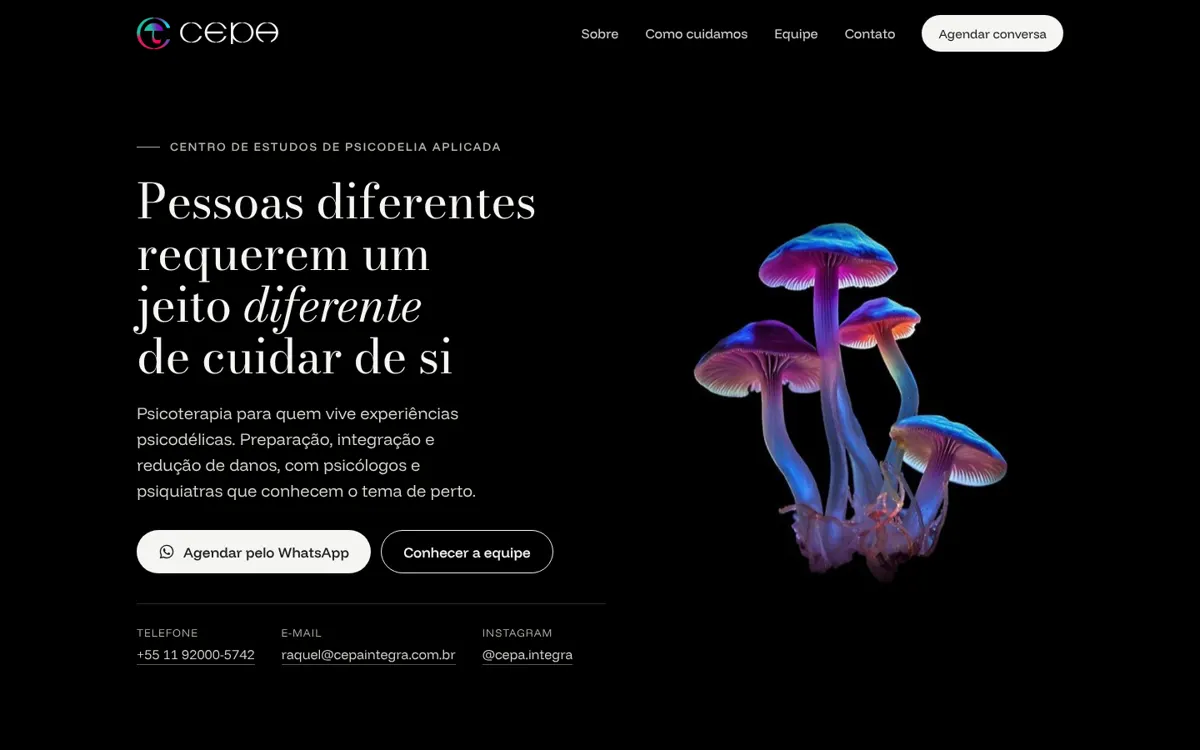
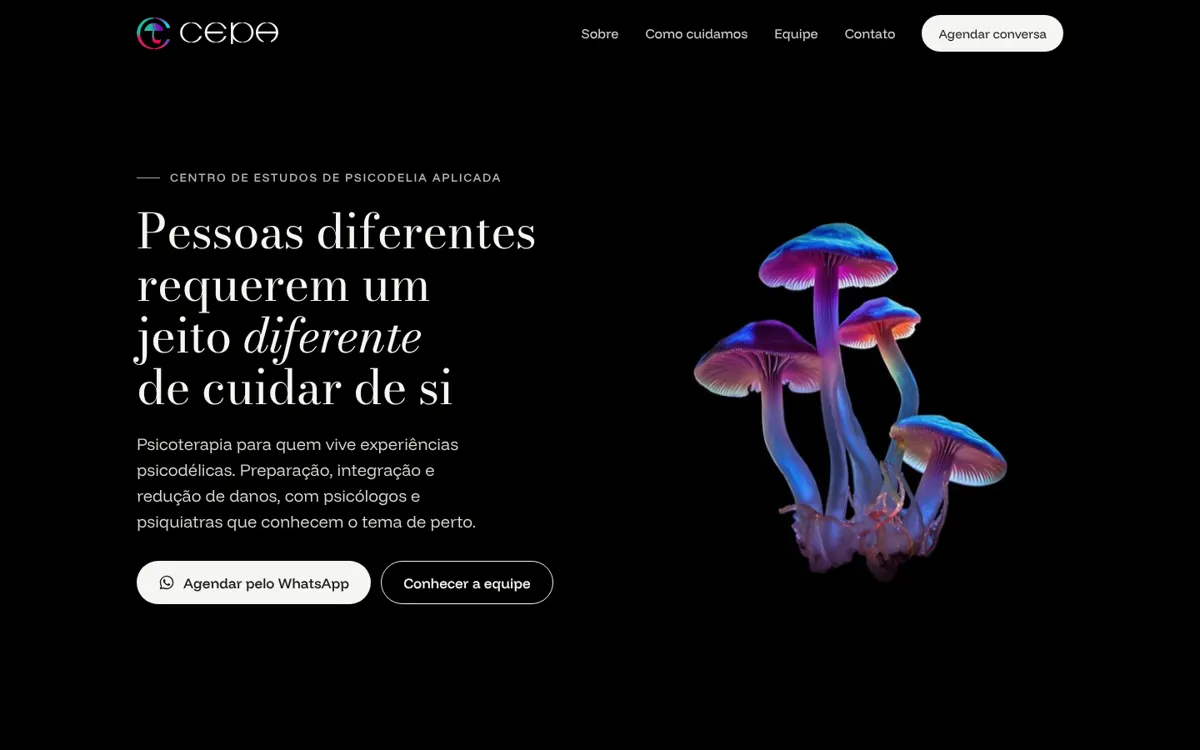
CEPA Vitamina: abertura sem contatos, botões sem pulo, WhatsApp com ícone no contato, imagens sem distorção e quatro opções de abertura
Claude-Session: https://claude.ai/code/session_01FyrvPRAtmUJU3PZbC5bryX

Changed region(s): [[0.0925, 0.184, 0.4625, 0.8893], [0.4008, 0.828, 0.4933, 0.8893]]

diff --git a/cepa/vitamina/index.html b/cepa/vitamina/index.html
@@ -48,12 +48,12 @@ h1,h2,h3{font-family:var(--serif);font-weight:400;letter-spacing:-.01em;line-hei
 p{text-wrap:pretty}
 
 /* Botões */
-.btn{display:inline-flex;align-items:center;gap:10px;min-height:52px;padding:14px 26px;border-radius:999px;font:500 17px/1 var(--sans);text-decoration:none;transition:background .25s var(--ease),color .25s var(--ease),transform .25s var(--ease)}
+.btn{display:inline-flex;align-items:center;gap:10px;min-height:52px;padding:14px 26px;border-radius:999px;font:500 17px/1 var(--sans);text-decoration:none;transition:background .25s var(--ease),color .25s var(--ease)}
 .btn svg{width:20px;height:20px;flex:none}
 .btn-luz{background:var(--off);color:var(--preto)}
-.btn-luz:hover{background:var(--branco);transform:translateY(-1px)}
+.btn-luz:hover{background:var(--branco)}
 .btn-escuro{background:var(--preto);color:var(--off)}
-.btn-escuro:hover{background:#000;transform:translateY(-1px)}
+.btn-escuro:hover{background:#000}
 .btn-linha{border:1px solid currentColor}
 .btn-linha:hover{background:rgba(245,245,242,.1)}
 
@@ -89,7 +89,7 @@ p{text-wrap:pretty}
 .contato-rapido a:hover{border-color:var(--off);color:var(--off)}
 .contato-rapido span{display:block;font-size:13px;letter-spacing:.08em;text-transform:uppercase;color:var(--cinza-escuro);margin-bottom:4px}
 .visual{position:relative;justify-self:end;width:min(100%,620px);aspect-ratio:1}
-.visual img{width:100%;height:100%;object-fit:cover;-webkit-mask-image:radial-gradient(closest-side,#000 72%,transparent 100%);mask-image:radial-gradient(closest-side,#000 72%,transparent 100%);animation:flutua 9s ease-in-out infinite}
+.visual img{width:100%;height:100%;object-fit:contain;-webkit-mask-image:radial-gradient(closest-side,#000 72%,transparent 100%);mask-image:radial-gradient(closest-side,#000 72%,transparent 100%);animation:flutua 9s ease-in-out infinite}
 .visual::after{content:"";position:absolute;inset:18%;z-index:-1;background:radial-gradient(closest-side,rgba(77,98,173,.45),rgba(216,27,97,.18) 60%,transparent);filter:blur(30px)}
 @keyframes flutua{0%,100%{transform:translateY(0)}50%{transform:translateY(-10px)}}
 
@@ -133,7 +133,7 @@ section{padding:var(--sec) 0}
 .aviso h2{font-size:clamp(32px,3.8vw,52px);margin-bottom:28px}
 .aviso p{color:#CFCCC5;margin-bottom:18px;max-width:58ch}
 .aviso p strong{color:var(--off);font-weight:500}
-.aviso img{width:100%;max-width:460px;justify-self:end;-webkit-mask-image:radial-gradient(closest-side,#000 70%,transparent);mask-image:radial-gradient(closest-side,#000 70%,transparent);opacity:.9}
+.aviso img{width:100%;height:auto;aspect-ratio:1;object-fit:cover;max-width:460px;justify-self:end;-webkit-mask-image:radial-gradient(closest-side,#000 70%,transparent);mask-image:radial-gradient(closest-side,#000 70%,transparent);opacity:.9}
 
 /* Equipe */
 .equipe .grid{display:grid;grid-template-columns:repeat(4,minmax(0,1fr));gap:40px 24px;list-style:none}
@@ -150,7 +150,7 @@ section{padding:var(--sec) 0}
 .contato p{font-size:clamp(18px,1.6vw,21px);max-width:40ch;margin-bottom:36px}
 .canais{list-style:none;display:grid;gap:0;border-top:1px solid rgba(245,245,242,.35)}
 .canais a{display:flex;justify-content:space-between;align-items:center;gap:16px;padding:20px 0;border-bottom:1px solid rgba(245,245,242,.35);text-decoration:none;font-size:clamp(18px,1.6vw,22px);transition:padding .25s var(--ease)}
-.canais a:hover{padding-left:8px}
+.canais a:hover{border-bottom-color:var(--off)}
 .canais span{font-size:13px;letter-spacing:.08em;text-transform:uppercase;opacity:.8;display:block;margin-bottom:2px}
 .canais svg{width:22px;height:22px;flex:none}
 
@@ -208,7 +208,64 @@ footer .wrap{display:grid;gap:48px}
   .visual img{animation:none}
   .surge{opacity:1;transform:none;transition:none}
 }
+
+/* Opções de abertura: A (padrão), B, C e D. Troque com ?abertura=b na URL */
+.hero{display:none}
+html:not([data-hero]) .hero-a,html[data-hero=a] .hero-a,html[data-hero=b] .hero-b,html[data-hero=c] .hero-c,html[data-hero=d] .hero-d{display:flex}
+/* B: gradiente da marca, como o cartão de visita */
+.hero-b .hero-fundo{position:absolute;inset:0;width:100%;height:100%;object-fit:cover}
+.hero-b::before{content:"";position:absolute;inset:0;z-index:1;background:linear-gradient(180deg,rgba(0,0,0,.15),rgba(0,0,0,.05) 40%,rgba(0,0,0,.45))}
+.hero-b .wrap{display:block;z-index:2;padding-top:112px;padding-bottom:56px}
+.hero-b .simb-grande{width:clamp(64px,6vw,96px);height:auto;filter:brightness(0) invert(1);margin-bottom:28px}
+.hero-b .eyebrow{color:var(--off);opacity:.9}
+.hero-b h1{max-width:16ch;font-size:clamp(38px,4.4vw,64px)}
+.hero-b .lead{color:var(--off)}
+.hero-b .btn-linha:hover{background:rgba(245,245,242,.16)}
+/* C: o key visual do Figma, a palavra cepa sobre os cogumelos */
+.hero-c .wrap{display:flex;flex-direction:column;align-items:center;text-align:center;padding-top:96px;padding-bottom:56px}
+.kv{position:relative;width:min(100%,760px);display:grid;place-items:center;margin-bottom:8px}
+.kv-foto{grid-area:1/1;width:min(44vh,380px);height:auto;aspect-ratio:1;object-fit:contain;-webkit-mask-image:radial-gradient(closest-side,#000 70%,transparent);mask-image:radial-gradient(closest-side,#000 70%,transparent)}
+.kv-palavra{grid-area:1/1;width:100%;height:auto;position:relative;z-index:1}
+.hero-c h1{font-size:clamp(28px,2.6vw,38px);max-width:24ch;margin:0 auto 12px}
+.hero-c .lead{margin:0 auto 24px;max-width:46ch}
+.hero-c .acoes{justify-content:center;margin-bottom:0}
+/* D: editorial claro, texto no off-white e o gradiente ao lado */
+.hero-d{background:var(--off);color:var(--preto);display:none;align-items:stretch}
+html[data-hero=d] .hero-d{display:grid;grid-template-columns:minmax(0,1.1fr) minmax(0,.9fr)}
+.d-texto{display:flex;flex-direction:column;justify-content:center;padding:120px clamp(24px,5vw,72px) 64px max(var(--gut),calc((100vw - var(--max))/2 + var(--gut)))}
+.d-texto .eyebrow{color:var(--roxo);margin-bottom:22px}
+.d-texto h1{font-size:clamp(40px,4.4vw,66px);margin-bottom:22px;max-width:14ch}
+.d-texto .lead{color:var(--cinza);font-size:clamp(18px,1.5vw,20px);max-width:38ch;margin-bottom:32px}
+.d-texto .btn-linha:hover{background:rgba(28,28,28,.06)}
+.d-midia{position:relative;overflow:hidden;min-height:100%}
+.d-midia video{position:absolute;inset:0;width:100%;height:100%;object-fit:cover}
+.d-simb{position:absolute;left:50%;top:50%;width:clamp(120px,14vw,200px);height:auto;transform:translate(-50%,-50%);filter:brightness(0) invert(1)}
+html[data-hero=d] .topo:not(.solido){color:var(--preto)}
+html[data-hero=d] .topo:not(.solido) .palavra-branca{display:none}
+html[data-hero=d] .topo:not(.solido) .palavra-preta{display:block}
+html[data-hero=d] .topo:not(.solido) .menu .btn{background:var(--preto);color:var(--off)}
+/* seletor de abertura, só aparece com ?abertura= na URL */
+.seletor{position:fixed;left:max(20px,env(safe-area-inset-left));bottom:max(20px,env(safe-area-inset-bottom));z-index:30;display:none;gap:4px;padding:6px;border-radius:999px;background:rgba(28,28,28,.9);backdrop-filter:blur(8px);-webkit-backdrop-filter:blur(8px);font:500 14px/1 var(--sans);color:var(--off)}
+html[data-seletor] .seletor{display:flex}
+.seletor span{padding:10px 8px 10px 12px;opacity:.7}
+.seletor a{display:grid;place-items:center;min-width:40px;height:36px;border-radius:999px;text-decoration:none}
+.seletor a[aria-current]{background:var(--off);color:var(--preto)}
+@media (max-width:860px){
+  .hero-b .wrap{padding-top:120px}
+  html[data-hero=d] .hero-d{grid-template-columns:1fr}
+  .d-midia{order:-1;min-height:42svh}
+  .d-texto{padding:40px var(--gut) 56px}
+  html[data-hero=d] .topo:not(.solido):not(.aberto){color:var(--off)}
+  html[data-hero=d] .topo:not(.solido):not(.aberto) .palavra-branca{display:block}
+  html[data-hero=d] .topo:not(.solido):not(.aberto) .palavra-preta{display:none}
+  .kv-foto{width:min(64vw,300px)}
+  .hero-c .wrap{padding-top:112px}
+}
+@media (prefers-reduced-motion:reduce){.hero-b .hero-fundo,.d-midia video{display:none}.hero-b{background:url(/cepa/vitamina/img/gradiente.jpg) center/cover}.d-midia{background:url(/cepa/vitamina/img/gradiente.jpg) center/cover}}
 </style>
+<script>
+  (function(){var q=new URLSearchParams(location.search).get("abertura");if(q&&/^[abcd]$/.test(q)){document.documentElement.dataset.hero=q;document.documentElement.dataset.seletor="";}})();
+</script>
 </head>
 <body>
 <a class="skip" href="#conteudo">Pular para o conteúdo</a>
@@ -232,7 +289,7 @@ footer .wrap{display:grid;gap:48px}
 </header>
 
 <main id="conteudo">
-  <section class="hero" aria-labelledby="h-hero">
+  <section class="hero hero-a" aria-labelledby="h-hero">
     <div class="wrap">
       <div>
         <p class="eyebrow">Centro de Estudos de Psicodelia Aplicada</p>
@@ -245,15 +302,55 @@ footer .wrap{display:grid;gap:48px}
           </a>
           <a class="btn btn-linha" href="#equipe">Conhecer a equipe</a>
         </div>
-        <ul class="contato-rapido" aria-label="Contato">
-          <li><span>Telefone</span><a href="tel:+5511920005742">+55 11 92000-5742</a></li>
-          <li><span>E-mail</span><a href="mailto:raquel@cepaintegra.com.br">raquel@cepaintegra.com.br</a></li>
-          <li><span>Instagram</span><a href="https://www.instagram.com/cepa.integra/" target="_blank" rel="noopener">@cepa.integra</a></li>
-        </ul>
       </div>
       <div class="visual">
         <img src="/cepa/vitamina/img/cogumelos-720.jpg" srcset="/cepa/vitamina/img/cogumelos-720.jpg 720w, /cepa/vitamina/img/cogumelos.jpg 1080w" sizes="(max-width:860px) 78vw, 46vw" alt="" width="720" height="720" fetchpriority="high">
       </div>
+    </div>
+  </section>
+
+  <section class="hero hero-b" aria-labelledby="h-hero-b">
+    <video class="hero-fundo" autoplay muted loop playsinline poster="/cepa/vitamina/img/gradiente.jpg" aria-hidden="true"><source src="/cepa/vitamina/img/cepa-bg.mp4" type="video/mp4"></video>
+    <div class="wrap">
+      <img class="simb-grande" src="/cepa/vitamina/img/cepa-icone.png" alt="" width="160" height="150">
+      <p class="eyebrow">Centro de Estudos de Psicodelia Aplicada</p>
+      <h1 id="h-hero-b">Pessoas diferentes requerem um jeito <em>diferente</em> de cuidar de si</h1>
+      <p class="lead">Psicoterapia para quem vive experiências psicodélicas. Preparação, integração e redução de danos, com psicólogos e psiquiatras que conhecem o tema de perto.</p>
+      <div class="acoes">
+          <a class="btn btn-luz" data-zap href="https://wa.me/5511920005742?text=Ol%C3%A1!%20Vim%20pelo%20site%20do%20CEPA%20e%20gostaria%20de%20saber%20mais%20sobre%20o%20atendimento." target="_blank" rel="noopener"><svg viewBox="0 0 96 96" fill="currentColor" aria-hidden="true"><path d="M76.2 19.64A39.4 39.4 0 0 0 48.16 8C26.32 8 8.52 25.8 8.52 47.64c0 7 1.84 13.8 5.28 19.8L8.2 88l21-5.52a39.6 39.6 0 0 0 18.96 4.84c21.84 0 39.64-17.8 39.64-39.64 0-10.6-4.12-20.56-11.6-28.04ZM48.16 80.6c-5.92 0-11.72-1.6-16.8-4.6l-1.2-.72-12.48 3.28L21 66.4l-.8-1.24a32.8 32.8 0 0 1-5.04-17.52c0-18.16 14.8-32.96 32.96-32.96 8.8 0 17.08 3.44 23.28 9.68a32.7 32.7 0 0 1 9.64 23.32c.08 18.16-14.72 32.92-32.88 32.92Zm18.08-24.64c-1-.48-5.88-2.88-6.76-3.24-.92-.32-1.56-.48-2.24.48-.68 1-2.56 3.24-3.12 3.88-.56.68-1.16.76-2.16.24-1-.48-4.2-1.56-7.96-4.92-2.96-2.64-4.92-5.88-5.52-6.88-.56-1-.08-1.52.44-2.04.44-.44 1-1.16 1.48-1.72.48-.56.68-1 1-1.64.32-.68.16-1.24-.08-1.72-.24-.48-2.24-5.36-3.04-7.36-.8-1.92-1.64-1.68-2.24-1.72h-1.92c-.68 0-1.72.24-2.64 1.24-.88 1-3.44 3.4-3.44 8.28s3.56 9.6 4.04 10.24c.48.68 7 10.68 16.92 14.96 2.36 1.04 4.2 1.64 5.64 2.08 2.36.76 4.52.64 6.24.4 1.92-.28 5.88-2.4 6.68-4.72.84-2.32.84-4.28.56-4.72-.28-.44-.88-.64-1.88-1.12Z"/></svg>Agendar pelo WhatsApp</a>
+          <a class="btn btn-linha" href="#equipe">Conhecer a equipe</a>
+        </div>
+    </div>
+  </section>
+
+  <section class="hero hero-c" aria-labelledby="h-hero-c">
+    <div class="wrap">
+      <div class="kv">
+        <img class="kv-foto" src="/cepa/vitamina/img/cogumelos.jpg" alt="" width="1080" height="1080">
+        <img class="kv-palavra" src="/cepa/vitamina/img/cepa-branco.svg" alt="CEPA" width="1240" height="273">
+      </div>
+      <h1 id="h-hero-c">Pessoas diferentes requerem um jeito <em>diferente</em> de cuidar de si</h1>
+      <p class="lead">Psicoterapia para quem vive experiências psicodélicas. Preparação, integração e redução de danos, com psicólogos e psiquiatras que conhecem o tema de perto.</p>
+      <div class="acoes">
+          <a class="btn btn-luz" data-zap href="https://wa.me/5511920005742?text=Ol%C3%A1!%20Vim%20pelo%20site%20do%20CEPA%20e%20gostaria%20de%20saber%20mais%20sobre%20o%20atendimento." target="_blank" rel="noopener"><svg viewBox="0 0 96 96" fill="currentColor" aria-hidden="true"><path d="M76.2 19.64A39.4 39.4 0 0 0 48.16 8C26.32 8 8.52 25.8 8.52 47.64c0 7 1.84 13.8 5.28 19.8L8.2 88l21-5.52a39.6 39.6 0 0 0 18.96 4.84c21.84 0 39.64-17.8 39.64-39.64 0-10.6-4.12-20.56-11.6-28.04ZM48.16 80.6c-5.92 0-11.72-1.6-16.8-4.6l-1.2-.72-12.48 3.28L21 66.4l-.8-1.24a32.8 32.8 0 0 1-5.04-17.52c0-18.16 14.8-32.96 32.96-32.96 8.8 0 17.08 3.44 23.28 9.68a32.7 32.7 0 0 1 9.64 23.32c.08 18.16-14.72 32.92-32.88 32.92Zm18.08-24.64c-1-.48-5.88-2.88-6.76-3.24-.92-.32-1.56-.48-2.24.48-.68 1-2.56 3.24-3.12 3.88-.56.68-1.16.76-2.16.24-1-.48-4.2-1.56-7.96-4.92-2.96-2.64-4.92-5.88-5.52-6.88-.56-1-.08-1.52.44-2.04.44-.44 1-1.16 1.48-1.72.48-.56.68-1 1-1.64.32-.68.16-1.24-.08-1.72-.24-.48-2.24-5.36-3.04-7.36-.8-1.92-1.64-1.68-2.24-1.72h-1.92c-.68 0-1.72.24-2.64 1.24-.88 1-3.44 3.4-3.44 8.28s3.56 9.6 4.04 10.24c.48.68 7 10.68 16.92 14.96 2.36 1.04 4.2 1.64 5.64 2.08 2.36.76 4.52.64 6.24.4 1.92-.28 5.88-2.4 6.68-4.72.84-2.32.84-4.28.56-4.72-.28-.44-.88-.64-1.88-1.12Z"/></svg>Agendar pelo WhatsApp</a>
+          <a class="btn btn-linha" href="#equipe">Conhecer a equipe</a>
+        </div>
+    </div>
+  </section>
+
+  <section class="hero hero-d" aria-labelledby="h-hero-d">
+    <div class="d-texto">
+      <p class="eyebrow">Centro de Estudos de Psicodelia Aplicada</p>
+      <h1 id="h-hero-d">Pessoas diferentes requerem um jeito <em>diferente</em> de cuidar de si</h1>
+      <p class="lead">Psicoterapia para quem vive experiências psicodélicas. Preparação, integração e redução de danos, com psicólogos e psiquiatras que conhecem o tema de perto.</p>
+      <div class="acoes">
+          <a class="btn btn-escuro" data-zap href="https://wa.me/5511920005742?text=Ol%C3%A1!%20Vim%20pelo%20site%20do%20CEPA%20e%20gostaria%20de%20saber%20mais%20sobre%20o%20atendimento." target="_blank" rel="noopener"><svg viewBox="0 0 96 96" fill="currentColor" aria-hidden="true"><path d="M76.2 19.64A39.4 39.4 0 0 0 48.16 8C26.32 8 8.52 25.8 8.52 47.64c0 7 1.84 13.8 5.28 19.8L8.2 88l21-5.52a39.6 39.6 0 0 0 18.96 4.84c21.84 0 39.64-17.8 39.64-39.64 0-10.6-4.12-20.56-11.6-28.04ZM48.16 80.6c-5.92 0-11.72-1.6-16.8-4.6l-1.2-.72-12.48 3.28L21 66.4l-.8-1.24a32.8 32.8 0 0 1-5.04-17.52c0-18.16 14.8-32.96 32.96-32.96 8.8 0 17.08 3.44 23.28 9.68a32.7 32.7 0 0 1 9.64 23.32c.08 18.16-14.72 32.92-32.88 32.92Zm18.08-24.64c-1-.48-5.88-2.88-6.76-3.24-.92-.32-1.56-.48-2.24.48-.68 1-2.56 3.24-3.12 3.88-.56.68-1.16.76-2.16.24-1-.48-4.2-1.56-7.96-4.92-2.96-2.64-4.92-5.88-5.52-6.88-.56-1-.08-1.52.44-2.04.44-.44 1-1.16 1.48-1.72.48-.56.68-1 1-1.64.32-.68.16-1.24-.08-1.72-.24-.48-2.24-5.36-3.04-7.36-.8-1.92-1.64-1.68-2.24-1.72h-1.92c-.68 0-1.72.24-2.64 1.24-.88 1-3.44 3.4-3.44 8.28s3.56 9.6 4.04 10.24c.48.68 7 10.68 16.92 14.96 2.36 1.04 4.2 1.64 5.64 2.08 2.36.76 4.52.64 6.24.4 1.92-.28 5.88-2.4 6.68-4.72.84-2.32.84-4.28.56-4.72-.28-.44-.88-.64-1.88-1.12Z"/></svg>Agendar pelo WhatsApp</a>
+          <a class="btn btn-linha" href="#equipe">Conhecer a equipe</a>
+      </div>
+    </div>
+    <div class="d-midia">
+      <video autoplay muted loop playsinline poster="/cepa/vitamina/img/gradiente.jpg" aria-hidden="true"><source src="/cepa/vitamina/img/cepa-bg.mp4" type="video/mp4"></video>
+      <img src="/cepa/vitamina/img/cepa-icone.png" alt="" width="160" height="150" class="d-simb">
     </div>
   </section>
 
@@ -325,7 +422,7 @@ footer .wrap{display:grid;gap:48px}
         <p class="eyebrow">Contato</p>
         <h2 id="h-contato">Vamos conversar?</h2>
         <p>Conte um pouco do que você procura. A gente responde e indica o profissional mais adequado para você.</p>
-        <a class="btn btn-luz" data-zap href="https://wa.me/5511920005742?text=Ol%C3%A1!%20Vim%20pelo%20site%20do%20CEPA%20e%20gostaria%20de%20saber%20mais%20sobre%20o%20atendimento." target="_blank" rel="noopener">Agendar pelo WhatsApp</a>
+        <a class="btn btn-luz" data-zap href="https://wa.me/5511920005742?text=Ol%C3%A1!%20Vim%20pelo%20site%20do%20CEPA%20e%20gostaria%20de%20saber%20mais%20sobre%20o%20atendimento." target="_blank" rel="noopener"><svg viewBox="0 0 96 96" fill="currentColor" aria-hidden="true"><path d="M76.2 19.64A39.4 39.4 0 0 0 48.16 8C26.32 8 8.52 25.8 8.52 47.64c0 7 1.84 13.8 5.28 19.8L8.2 88l21-5.52a39.6 39.6 0 0 0 18.96 4.84c21.84 0 39.64-17.8 39.64-39.64 0-10.6-4.12-20.56-11.6-28.04ZM48.16 80.6c-5.92 0-11.72-1.6-16.8-4.6l-1.2-.72-12.48 3.28L21 66.4l-.8-1.24a32.8 32.8 0 0 1-5.04-17.52c0-18.16 14.8-32.96 32.96-32.96 8.8 0 17.08 3.44 23.28 9.68a32.7 32.7 0 0 1 9.64 23.32c.08 18.16-14.72 32.92-32.88 32.92Zm18.08-24.64c-1-.48-5.88-2.88-6.76-3.24-.92-.32-1.56-.48-2.24.48-.68 1-2.56 3.24-3.12 3.88-.56.68-1.16.76-2.16.24-1-.48-4.2-1.56-7.96-4.92-2.96-2.64-4.92-5.88-5.52-6.88-.56-1-.08-1.52.44-2.04.44-.44 1-1.16 1.48-1.72.48-.56.68-1 1-1.64.32-.68.16-1.24-.08-1.72-.24-.48-2.24-5.36-3.04-7.36-.8-1.92-1.64-1.68-2.24-1.72h-1.92c-.68 0-1.72.24-2.64 1.24-.88 1-3.44 3.4-3.44 8.28s3.56 9.6 4.04 10.24c.48.68 7 10.68 16.92 14.96 2.36 1.04 4.2 1.64 5.64 2.08 2.36.76 4.52.64 6.24.4 1.92-.28 5.88-2.4 6.68-4.72.84-2.32.84-4.28.56-4.72-.28-.44-.88-.64-1.88-1.12Z"/></svg>Agendar pelo WhatsApp</a>
       </div>
       <ul class="canais surge">
         <li><a href="tel:+5511920005742"><div><span>Telefone e WhatsApp</span>+55 11 92000-5742</div><svg viewBox="0 0 16 16" fill="none" stroke="currentColor" stroke-width="1.4" aria-hidden="true"><path d="M3.5 12.5 12 4M5.5 3.75h6.75v6.75"/></svg></a></li>
@@ -360,6 +457,8 @@ footer .wrap{display:grid;gap:48px}
   <svg viewBox="0 0 96 96" fill="currentColor" aria-hidden="true"><path d="M76.2 19.64A39.4 39.4 0 0 0 48.16 8C26.32 8 8.52 25.8 8.52 47.64c0 7 1.84 13.8 5.28 19.8L8.2 88l21-5.52a39.6 39.6 0 0 0 18.96 4.84c21.84 0 39.64-17.8 39.64-39.64 0-10.6-4.12-20.56-11.6-28.04ZM48.16 80.6c-5.92 0-11.72-1.6-16.8-4.6l-1.2-.72-12.48 3.28L21 66.4l-.8-1.24a32.8 32.8 0 0 1-5.04-17.52c0-18.16 14.8-32.96 32.96-32.96 8.8 0 17.08 3.44 23.28 9.68a32.7 32.7 0 0 1 9.64 23.32c.08 18.16-14.72 32.92-32.88 32.92Zm18.08-24.64c-1-.48-5.88-2.88-6.76-3.24-.92-.32-1.56-.48-2.24.48-.68 1-2.56 3.24-3.12 3.88-.56.68-1.16.76-2.16.24-1-.48-4.2-1.56-7.96-4.92-2.96-2.64-4.92-5.88-5.52-6.88-.56-1-.08-1.52.44-2.04.44-.44 1-1.16 1.48-1.72.48-.56.68-1 1-1.64.32-.68.16-1.24-.08-1.72-.24-.48-2.24-5.36-3.04-7.36-.8-1.92-1.64-1.68-2.24-1.72h-1.92c-.68 0-1.72.24-2.64 1.24-.88 1-3.44 3.4-3.44 8.28s3.56 9.6 4.04 10.24c.48.68 7 10.68 16.92 14.96 2.36 1.04 4.2 1.64 5.64 2.08 2.36.76 4.52.64 6.24.4 1.92-.28 5.88-2.4 6.68-4.72.84-2.32.84-4.28.56-4.72-.28-.44-.88-.64-1.88-1.12Z"/></svg>
 </a>
 
+<nav class="seletor" aria-label="Opções de abertura"><span>Abertura</span><a href="?abertura=a">A</a><a href="?abertura=b">B</a><a href="?abertura=c">C</a><a href="?abertura=d">D</a></nav>
+
 <script>
   // Equipe: edite esta lista para adicionar, remover ou reordenar terapeutas.
   const equipe = [
@@ -382,7 +481,9 @@ footer .wrap{display:grid;gap:48px}
     `<li class="pessoa surge"><img src="/cepa/vitamina/img/${foto}.jpg" alt="Foto de ${nome}" width="640" height="640" loading="lazy"><h3>${nome}</h3><p class="reg">${reg}</p><p class="cargo">${cargo}</p></li>`).join("");
 
   // Topo: fica sólido depois da abertura
-  const topo = document.getElementById("topo"), hero = document.querySelector(".hero");
+  const topo = document.getElementById("topo"), heroAtual = document.documentElement.dataset.hero || "a", hero = document.querySelector(".hero-" + heroAtual);
+  document.querySelectorAll(".seletor a").forEach(a => { if (a.textContent.toLowerCase() === heroAtual) a.setAttribute("aria-current","true"); });
+  document.querySelectorAll(".hero:not(.hero-" + heroAtual + ") video").forEach(v => v.remove());
   const zap = document.getElementById("zap");
   new IntersectionObserver(([e]) => topo.classList.toggle("solido", !e.isIntersecting), {rootMargin: "-80px 0px 0px 0px"}).observe(hero);
 

diff --git a/cepa/index.html b/cepa/index.html
@@ -242,8 +242,9 @@ a:hover{text-decoration-thickness:2px}
       <a href="#lado"><span>1</span>Lado a lado</a>
       <a href="#auditorias"><span>2</span>Auditorias</a>
       <a href="#muda"><span>3</span>O que muda</a>
-      <a href="#bilingue"><span>4</span>Bilíngue</a>
-      <a href="#passos"><span>5</span>Próximos passos</a>
+      <a href="#aberturas"><span>4</span>Aberturas</a>
+      <a href="#bilingue"><span>5</span>Bilíngue</a>
+      <a href="#passos"><span>6</span>Próximos passos</a>
     </nav>
   </div>
 </header>
@@ -252,7 +253,7 @@ a:hover{text-decoration-thickness:2px}
 
   <section class="wrap opening grid" aria-labelledby="h-top">
     <h1 id="h-top">CEPA, em duas versões. <span>O site de hoje e uma proposta nova.</span></h1>
-    <p class="lead">A versão atual é o site que está no ar, refeito fora do Framer, com as mesmas seções e a paleta oficial da marca. A Vitamina é uma proposta nova, mais fiel à identidade do Figma, com uma abertura mais forte e o contato sempre à mostra. As fotos e as pessoas da equipe são as mesmas nas duas.</p>
+    <p class="lead">A versão atual é o site que está no ar, refeito fora do Framer, com as mesmas seções e a paleta oficial da marca. A Vitamina é uma proposta nova, mais fiel à identidade do Figma, com uma abertura mais forte e o WhatsApp sempre à mão. As fotos e as pessoas da equipe são as mesmas nas duas.</p>
   </section>
 
   <section class="part" id="lado" aria-labelledby="h-lado">
@@ -275,7 +276,7 @@ a:hover{text-decoration-thickness:2px}
             <div class="phone"><div class="screen"><iframe src="/cepa/vitamina/" title="Site do CEPA, versão Vitamina" loading="lazy"></iframe></div></div>
             <p class="hint">Role e toque dentro do celular.</p>
           </div>
-          <figcaption><b>Versão Vitamina</b> mais fiel ao Figma, com contato à mostra</figcaption>
+          <figcaption><b>Versão Vitamina</b> mais fiel ao Figma</figcaption>
           <a class="open" href="/cepa/vitamina/" target="_blank" rel="noopener">Abrir a versão Vitamina <span class="arw" aria-hidden="true"></span></a>
         </figure>
       </div>
@@ -311,7 +312,7 @@ a:hover{text-decoration-thickness:2px}
           <h3><span class="ico ico--topo" aria-hidden="true"></span>UX</h3>
           <ul>
             <li><b>A abertura não diz o que o CEPA faz.</b> A frase é bonita, mas quem chega não sabe que é psicoterapia, para quem é e como agendar.<small>Vitamina: uma linha abaixo do título explica o serviço.</small></li>
-            <li><b>O contato fica escondido.</b> O único caminho é o botão “Fale Conosco”, que abre o WhatsApp sem avisar. Não há telefone nem e-mail à vista, e o rodapé só tem o Instagram.<small>Vitamina: telefone, e-mail e Instagram já na abertura, um bloco de contato no fim e um botão de WhatsApp fixo.</small></li>
+            <li><b>O contato fica escondido.</b> O único caminho é o botão “Fale Conosco”, que abre o WhatsApp sem avisar. Não há telefone nem e-mail à vista, e o rodapé só tem o Instagram.<small>Vitamina: “Agendar pelo WhatsApp” com o ícone na abertura e no fim, um bloco de contato com telefone, e-mail e Instagram, e um botão de WhatsApp fixo.</small></li>
             <li><b>Um vazio depois da abertura.</b> O vídeo do Vimeo não tem capa e ocupa um espaço em branco até carregar.<small>Vitamina: o vídeo tem capa da marca e só carrega quando a pessoa toca.</small></li>
             <li><b>Página longa no celular.</b> São cerca de 12 mil pixels de rolagem, com os 14 terapeutas um embaixo do outro.<small>Vitamina: equipe em duas colunas no celular, cerca de 15% mais curta.</small></li>
             <li><b>Nenhum próximo passo no fim.</b> Depois da equipe, a página termina sem convite pra conversar.<small>Vitamina: “Vamos conversar?” com os três canais.</small></li>
@@ -363,7 +364,7 @@ a:hover{text-decoration-thickness:2px}
         <div class="change__text">
           <p class="num"><span class="ico ico--topo" aria-hidden="true"></span>1</p>
           <h3>Uma abertura com a cara do Figma</h3>
-          <p>Fundo preto, os cogumelos dos key visuals e o título em Bodoni, como no cartão de visita. Logo abaixo, o que o CEPA faz, o botão de agendar e os três contatos.</p>
+          <p>Fundo preto, os cogumelos dos key visuals e o título em Bodoni, como no cartão de visita. Logo abaixo, o que o CEPA faz e o botão de agendar pelo WhatsApp. Na parte 4 tem mais três opções de abertura.</p>
         </div>
         <div class="change__pair">
           <figure><img src="/cepa/review/a-hero.webp" alt="Abertura da versão atual" loading="lazy"><figcaption>Versão atual</figcaption></figure>
@@ -421,10 +422,67 @@ a:hover{text-decoration-thickness:2px}
     </div>
   </section>
 
+  <section class="part" id="aberturas" aria-labelledby="h-ab">
+    <div class="wrap">
+      <div class="head grid">
+        <h2 id="h-ab">4 · Quatro aberturas</h2>
+        <p>Quatro jeitos de abrir a versão Vitamina, todos com a identidade do Figma. No site, dá pra trocar entre elas pelo seletor no canto da tela.</p>
+      </div>
+      <div class="change grid">
+        <div class="change__text">
+          <p class="num">Abertura A</p>
+          <h3>Cogumelos no escuro</h3>
+          <p>A que está na versão Vitamina. Fundo preto, o título à esquerda e os cogumelos dos key visuals à direita. É a mais sóbria das quatro.</p>
+          <a class="open" href="/cepa/vitamina/?abertura=a" target="_blank" rel="noopener">Ver a abertura A no site <span class="arw" aria-hidden="true"></span></a>
+        </div>
+        <div class="change__pair">
+          <figure><img src="/cepa/review/abertura-a.webp" alt="Abertura A no computador" loading="lazy"><figcaption>No computador</figcaption></figure>
+          <figure><img src="/cepa/review/abertura-a-cel.webp" alt="Abertura A no celular" loading="lazy" style="max-width:220px"><figcaption>No celular</figcaption></figure>
+        </div>
+      </div>
+      <div class="change grid">
+        <div class="change__text">
+          <p class="num">Abertura B</p>
+          <h3>O gradiente do cartão</h3>
+          <p>O gradiente da marca em movimento, o mesmo do site de hoje e do cartão de visita, com o símbolo em branco. É a mais colorida e a mais próxima do que o público já conhece.</p>
+          <a class="open" href="/cepa/vitamina/?abertura=b" target="_blank" rel="noopener">Ver a abertura B no site <span class="arw" aria-hidden="true"></span></a>
+        </div>
+        <div class="change__pair">
+          <figure><img src="/cepa/review/abertura-b.webp" alt="Abertura B no computador" loading="lazy"><figcaption>No computador</figcaption></figure>
+          <figure><img src="/cepa/review/abertura-b-cel.webp" alt="Abertura B no celular" loading="lazy" style="max-width:220px"><figcaption>No celular</figcaption></figure>
+        </div>
+      </div>
+      <div class="change grid">
+        <div class="change__text">
+          <p class="num">Abertura C</p>
+          <h3>O key visual inteiro</h3>
+          <p>A palavra “cepa” grande sobre os cogumelos, como nos key visuals do Figma. A marca vem primeiro e o título fica embaixo, centralizado. É a mais forte como marca.</p>
+          <a class="open" href="/cepa/vitamina/?abertura=c" target="_blank" rel="noopener">Ver a abertura C no site <span class="arw" aria-hidden="true"></span></a>
+        </div>
+        <div class="change__pair">
+          <figure><img src="/cepa/review/abertura-c.webp" alt="Abertura C no computador" loading="lazy"><figcaption>No computador</figcaption></figure>
+          <figure><img src="/cepa/review/abertura-c-cel.webp" alt="Abertura C no celular" loading="lazy" style="max-width:220px"><figcaption>No celular</figcaption></figure>
+        </div>
+      </div>
+      <div class="change grid">
+        <div class="change__text">
+          <p class="num">Abertura D</p>
+          <h3>Editorial claro</h3>
+          <p>Texto em Bodoni sobre o off-white e o gradiente com o símbolo ao lado. É a mais leve e a que tem mais cara de consultório.</p>
+          <a class="open" href="/cepa/vitamina/?abertura=d" target="_blank" rel="noopener">Ver a abertura D no site <span class="arw" aria-hidden="true"></span></a>
+        </div>
+        <div class="change__pair">
+          <figure><img src="/cepa/review/abertura-d.webp" alt="Abertura D no computador" loading="lazy"><figcaption>No computador</figcaption></figure>
+          <figure><img src="/cepa/review/abertura-d-cel.webp" alt="Abertura D no celular" loading="lazy" style="max-width:220px"><figcaption>No celular</figcaption></figure>
+        </div>
+      </div>
+    </div>
+  </section>
+
   <section class="part" id="bilingue" aria-labelledby="h-bi">
     <div class="wrap">
       <div class="head grid">
-        <h2 id="h-bi">4 · Português e inglês</h2>
+        <h2 id="h-bi">5 · Português e inglês</h2>
         <p>O plano pra versão em inglês. Ela entra depois que a versão for escolhida, em cima da mesma página.</p>
       </div>
       <div class="grid">
@@ -444,11 +502,11 @@ a:hover{text-decoration-thickness:2px}
   <section class="part" id="passos" aria-labelledby="h-passos">
     <div class="wrap">
       <div class="head grid">
-        <h2 id="h-passos">5 · Próximos passos</h2>
+        <h2 id="h-passos">6 · Próximos passos</h2>
         <p>Até o site no ar no domínio do CEPA, sem a mensalidade do Framer.</p>
       </div>
       <ol class="timeline">
-        <li class="is-pending"><b>Agora</b><span>Escolher entre a versão atual e a Vitamina.</span>
+        <li class="is-pending"><b>Agora</b><span>Escolher entre a versão atual e a Vitamina, e uma das quatro aberturas.</span>
           <div class="need"><span class="need__tag"><span class="ico ico--aviso" aria-hidden="true"></span>Falta de vocês</span><ul><li>Qual nome usar: “de Psicodelia Aplicada” ou “Psicodélicos Aplicados”</li></ul></div></li>
         <li class="is-pending"><b>Em seguida</b><span>Ajustes na versão escolhida.</span>
           <div class="need"><span class="need__tag"><span class="ico ico--aviso" aria-hidden="true"></span>Falta de vocês</span><ul><li>Se o e-mail raquel@cepaintegra.com.br funciona</li><li>O registro da Victoria e se ela entra na equipe</li></ul></div></li>
